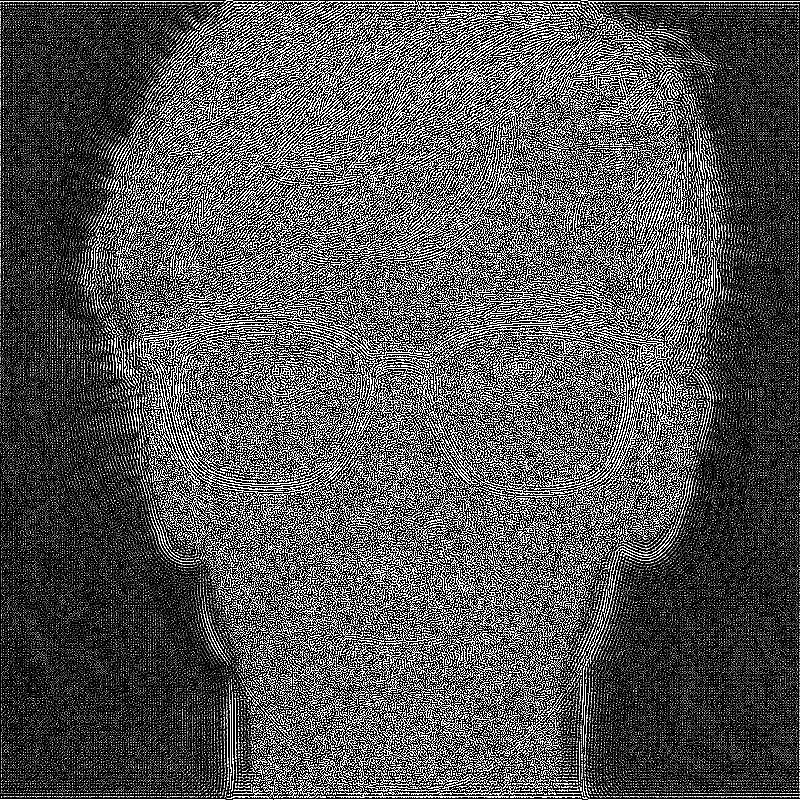
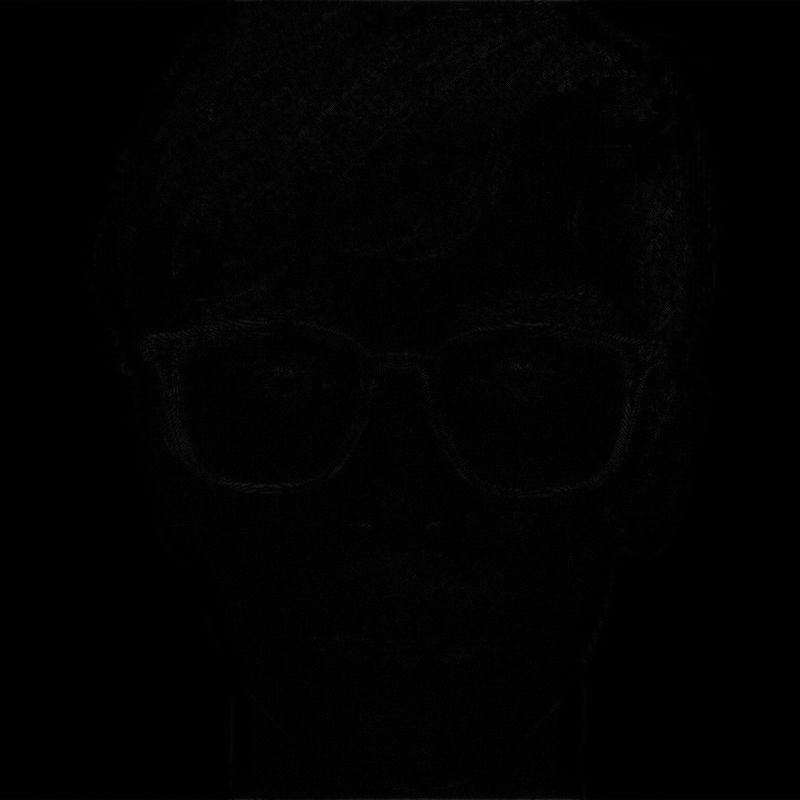
white images fix

diff --git a/Lab_4/Lab_4.m b/Lab_4/Lab_4.m
@@ -18,6 +18,7 @@ for D0 = [5 10 50 250]
     FFc = Fc.*H;
     FF = ifftshift(FFc);
     FI = real(ifft2(FF));
+    FI = uint8(abs(FI));
     imshow(FI, []); title(['Идеальный ФНЧ (D0 = ', num2str(D0), ')']); pause;
     imwrite(FI, ['Low/Ideal/' num2str(D0) '.png'])
 end
@@ -27,6 +28,7 @@ for D0 = [5 10 50 250]
     FFc = Fc.*H;
     FF = ifftshift(FFc);
     FI = real(ifft2(FF));
+    FI = uint8(abs(FI));
     imshow(FI, []); title(['Баттерворт ФНЧ (D0 = ', num2str(D0), ')']); pause;
     imwrite(FI, ['Low/Butter/' num2str(D0) '.png'])
 end
@@ -36,6 +38,7 @@ for D0 = [5 10 50 250]
     FFc = Fc.*H;
     FF = ifftshift(FFc);
     FI = real(ifft2(FF));
+    FI = uint8(abs(FI));
     imshow(FI, []); title(['Гаус ФНЧ (D0 = ', num2str(D0), ')']); pause;
     imwrite(FI, ['Low/Gaus/' num2str(D0) '.png'])
 end
@@ -46,6 +49,7 @@ for D0 = [5 10 50 250]
     FFc = Fc.*H;
     FF = ifftshift(FFc);
     FI = real(ifft2(FF));
+    FI = uint8(abs(FI));
     imshow(FI, []); title(['Идеальный ФВЧ (D0 = ', num2str(D0), ')']); pause;
     imwrite(FI, ['High/Ideal/' num2str(D0) '.png'])
 end
@@ -55,6 +59,7 @@ for D0 = [5 10 50 250]
     FFc = Fc.*H;
     FF = ifftshift(FFc);
     FI = real(ifft2(FF));
+    FI = uint8(abs(FI));
     imshow(FI, []); title(['Баттерворт ФВЧ (D0 = ', num2str(D0), ')']); pause;
     imwrite(FI, ['High/Butter/' num2str(D0) '.png'])
 end
@@ -64,6 +69,7 @@ for D0 = [5 10 50 250]
     FFc = Fc.*H;
     FF = ifftshift(FFc);
     FI = real(ifft2(FF));
+    FI = uint8(abs(FI));
     imshow(FI, []); title(['Гаус ФВЧ (D0 = ', num2str(D0), ')']); pause;
     imwrite(FI, ['High/Gaus/' num2str(D0) '.png'])
 end
